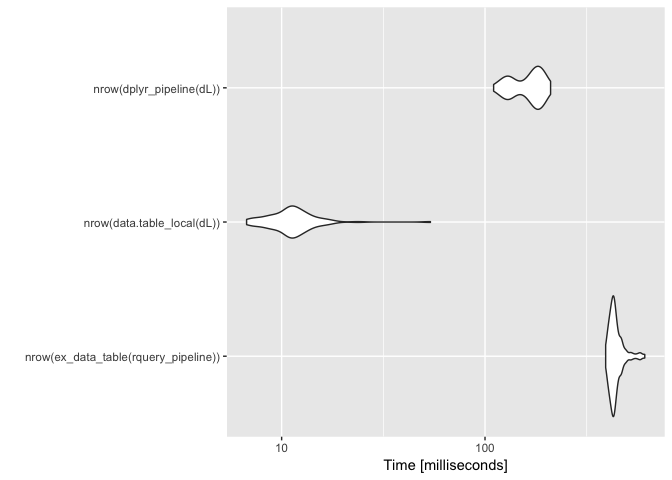
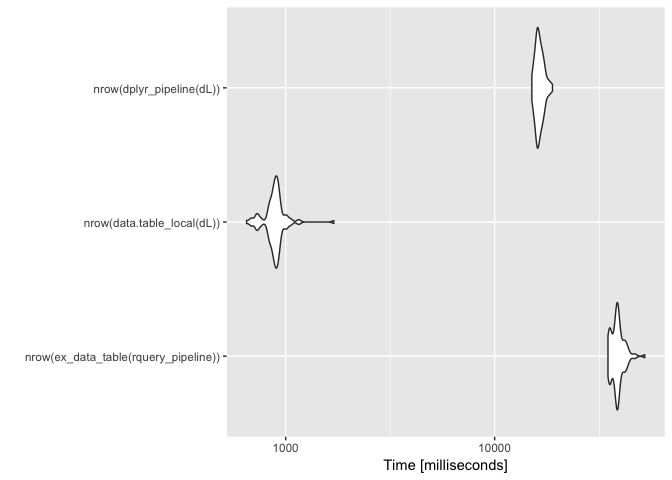
re-run

diff --git a/extras/data_table.md b/extras/data_table.md
@@ -199,7 +199,7 @@ Timings.
 
 ``` r
 # fatten up data.frame a bit
-dL <- dL[rep(seq_len(nrow(dL)), 1000), , drop = FALSE]
+dL <- dL[rep(seq_len(nrow(dL)), 100000), , drop = FALSE]
 dL$subjectID <- paste(dL$subjectID, (1+seq_len(nrow(dL))) %/% 2, sep = "_")
 for(i in seq_len(10)) {
   dL[[paste0("irrelevantCol", i)]] <- runif(nrow(dL))
@@ -209,26 +209,26 @@ for(i in seq_len(10)) {
 system.time(print(nrow(ex_data_table(rquery_pipeline))))
 ```
 
-    ## [1] 2000
+    ## [1] 200000
 
     ##    user  system elapsed 
-    ##   0.972   0.038   0.425
+    ##  41.830   0.673  42.571
 
 ``` r
 system.time(print(nrow(dplyr_pipeline(dL))))
 ```
 
-    ## [1] 2000
+    ## [1] 200000
 
     ##    user  system elapsed 
-    ##   0.399   0.007   0.162
+    ##  17.320   0.139  17.500
 
 ``` r
 system.time(nrow(data.table_local(dL)))
 ```
 
     ##    user  system elapsed 
-    ##   0.024   0.000   0.015
+    ##   1.367   0.048   0.810
 
 ``` r
 timings <- microbenchmark(
@@ -242,14 +242,14 @@ print(timings)
 ```
 
     ## Unit: milliseconds
-    ##                                  expr        min        lq      mean
-    ##  nrow(ex_data_table(rquery_pipeline)) 391.962113 416.69022 440.90833
-    ##            nrow(data.table_local(dL))   6.726181   9.44222  11.74941
-    ##              nrow(dplyr_pipeline(dL)) 110.235372 133.27840 162.92683
+    ##                                  expr        min         lq       mean
+    ##  nrow(ex_data_table(rquery_pipeline)) 34862.2797 36901.0846 38805.5518
+    ##            nrow(data.table_local(dL))   650.1954   849.8022   891.8786
+    ##              nrow(dplyr_pipeline(dL)) 15066.6152 15873.5946 16410.9090
     ##     median        uq       max neval
-    ##  430.11953 448.85524 610.36693   100
-    ##   11.16799  12.70062  53.89847   100
-    ##  171.69554 185.02202 210.10075   100
+    ##  38575.962 39719.327 52297.380   100
+    ##    890.274   920.545  1699.954   100
+    ##  16287.420 16891.901 18911.649   100
 
 ``` r
 # summarize by hand using rquery database connector
@@ -262,11 +262,11 @@ timings %.>%
   knitr::kable(.)
 ```
 
-| expr                                    |       mean|
-|:----------------------------------------|----------:|
-| nrow(dplyr\_pipeline(dL))               |  162926829|
-| nrow(data.table\_local(dL))             |   11749411|
-| nrow(ex\_data\_table(rquery\_pipeline)) |  440908327|
+| expr                                    |         mean|
+|:----------------------------------------|------------:|
+| nrow(dplyr\_pipeline(dL))               |  16410908996|
+| nrow(data.table\_local(dL))             |    891878555|
+| nrow(ex\_data\_table(rquery\_pipeline)) |  38805551750|
 
 ``` r
 autoplot(timings)
